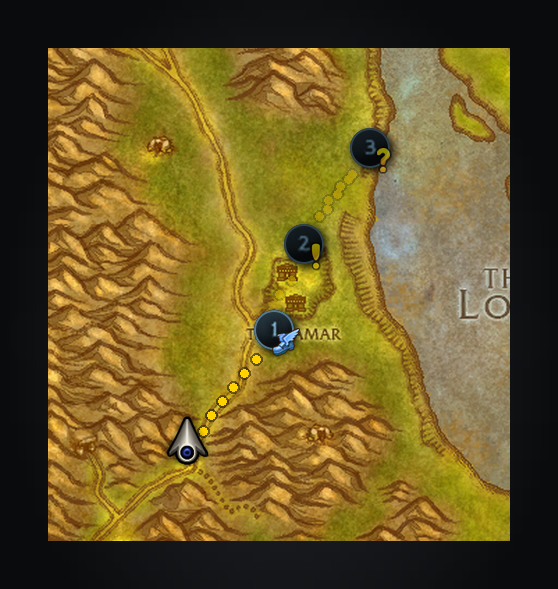
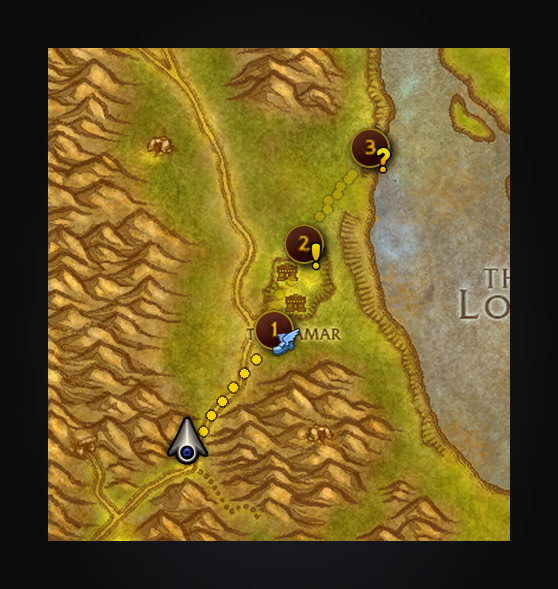
Keep route stop rings bright and legible (#70)
Route stops looked disabled against the map. Keep the native gold art
and raise later-stop opacity while preserving stop numbers, opaque
silhouettes and pickup/turn-in badges.

Validation: full Lua suite, LuaLS, native UI integration, lint/format
and project gates passed. Two screenshot renders were byte-identical and
the stop render was inspected. Complete diff reviewed without
correctness findings. Reloaded the candidate in-game without a visible
Lua error; a multi-stop live appearance check remains.

Changed region(s): [[0.6093, 0.2139, 0.7007, 0.3056], [0.4875, 0.3667, 0.5789, 0.4584], [0.457, 0.5195, 0.5484, 0.6112]]

diff --git a/tools/screenshots.py b/tools/screenshots.py
@@ -531,15 +531,15 @@ NUMBER_ICONS = "interface/worldmap/ui-questpoi-numbericons.blp"
 
 
 def stop_pin(canvas, x, y, number, badge, later):
-    """StopPin.lua: stock quest art desaturated and tinted blue, with the action badge always visible."""
-    alpha = 0.55 if later else 1
+    """StopPin.lua: warm gold stock quest art, with the action badge always visible."""
+    alpha = 0.9 if later else 1
     button = canvas.ui.atlas("UI-QuestPoi-QuestNumber").image
     canvas.draw(button, x - 16, y - 16, 32, 32, (0, 0, 0, 1))
-    canvas.draw(button.convert("LA").convert("RGBA"), x - 16, y - 16, 32, 32, (0.6, 0.85, 1, alpha))
+    canvas.draw(button, x - 16, y - 16, 32, 32, (1, 0.9, 0.7, alpha))
     cell = number - 1
     left, top = cell % 8 * 0.125, 0.5 + cell // 8 * 0.125
     numeral = crop_coords(canvas.ui.texture(NUMBER_ICONS), left, left + 0.125, top, top + 0.125)
-    canvas.draw(numeral.convert("LA").convert("RGBA"), x - 16, y - 16, 32, 32, (0.6, 0.85, 1, alpha))
+    canvas.draw(numeral, x - 16, y - 16, 32, 32, (1, 0.9, 0.7, alpha))
     edge = STOP_SIZE / 2 + 4
     art = canvas.ui.atlas(badge)
     factor = 16 / max(art.width, art.height)

diff --git a/CHANGELOG.md b/CHANGELOG.md
@@ -11,6 +11,10 @@ verbatim rather than rewritten as the addon moves.
 
 ## [Unreleased]
 
+## [1.4.5] - 2026-09-28
+
+- **Keep route stops legible.** Numbered stops use warm gold rings instead of dim blue, and later stops retain stronger contrast. Pickup and turn-in badges remain visible on shared stops.
+
 ## [1.4.4] - 2026-09-28
 
 - **Separate addon tracking from Blizzard’s layout.** Addon sections now use their own frame pools and sit beside the quest tracker, avoiding the shared tracker registration implicated in Edit Mode aura errors.
